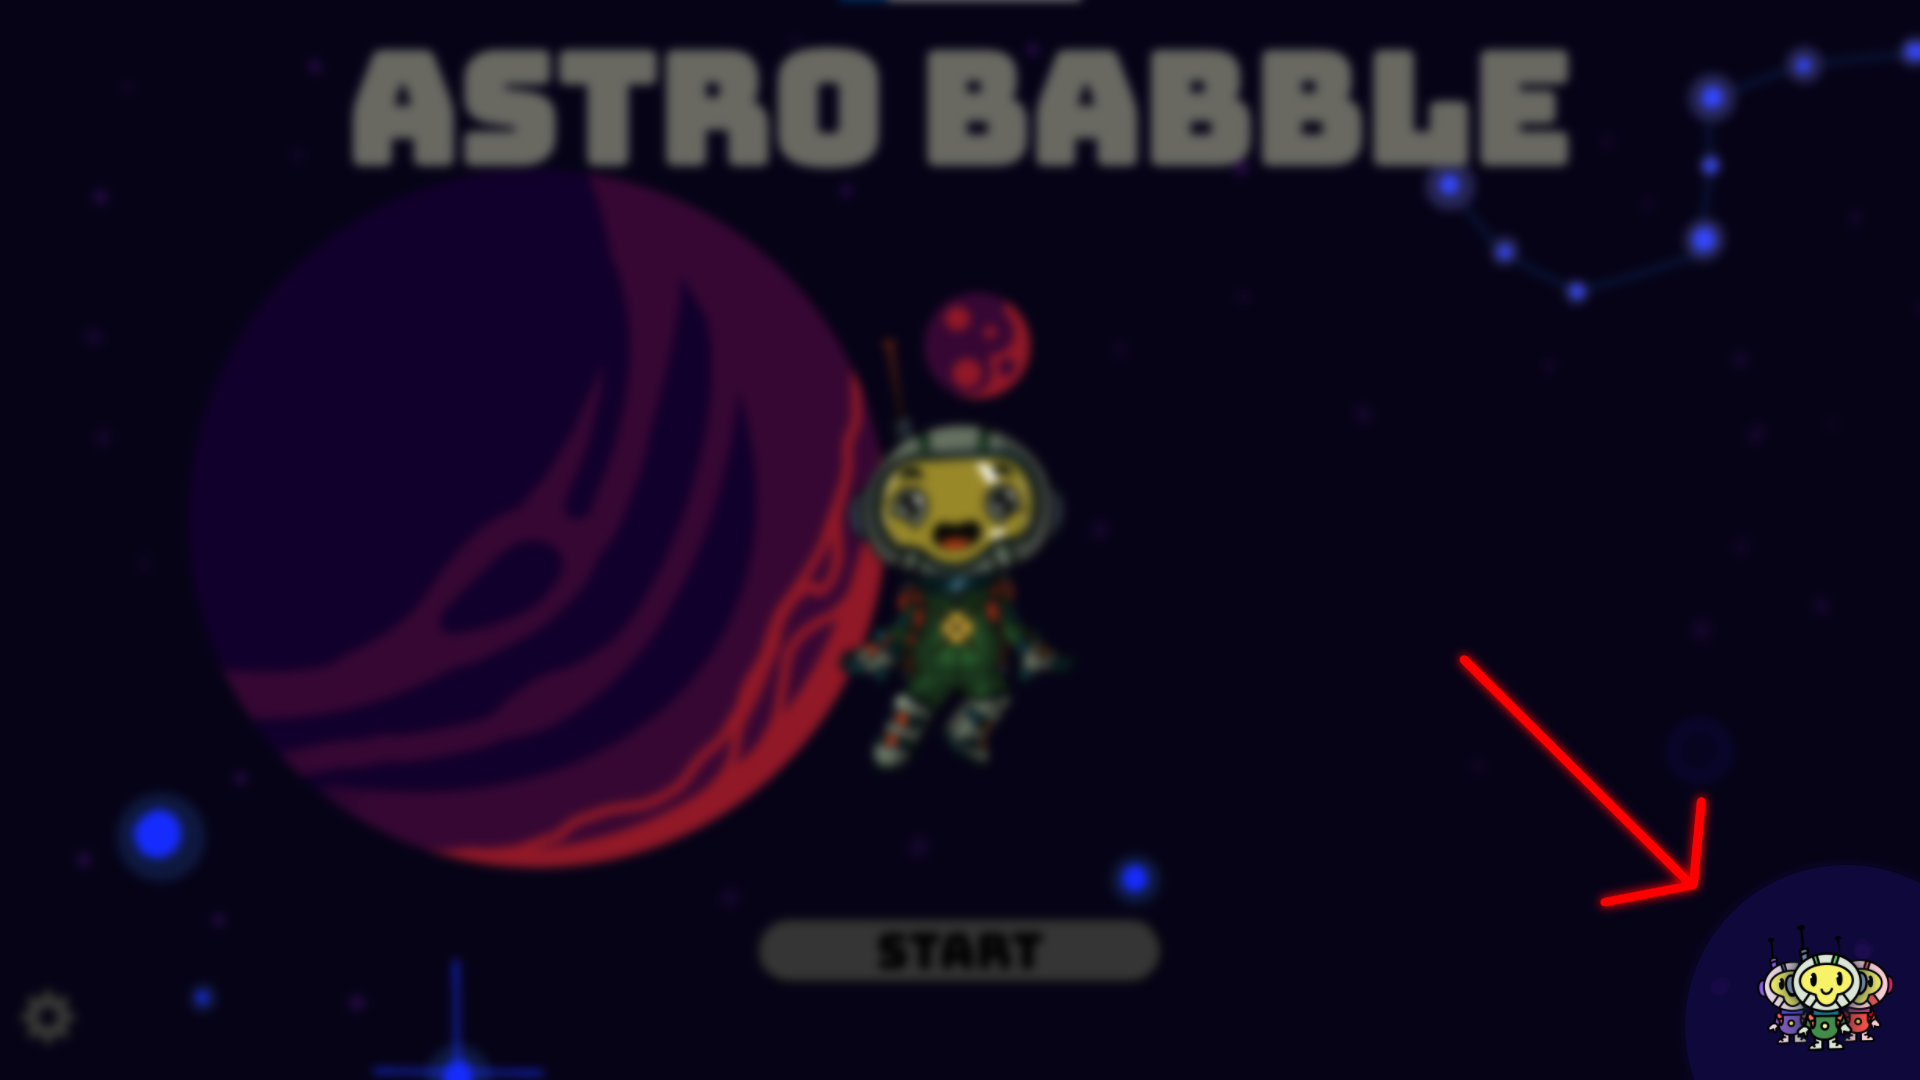
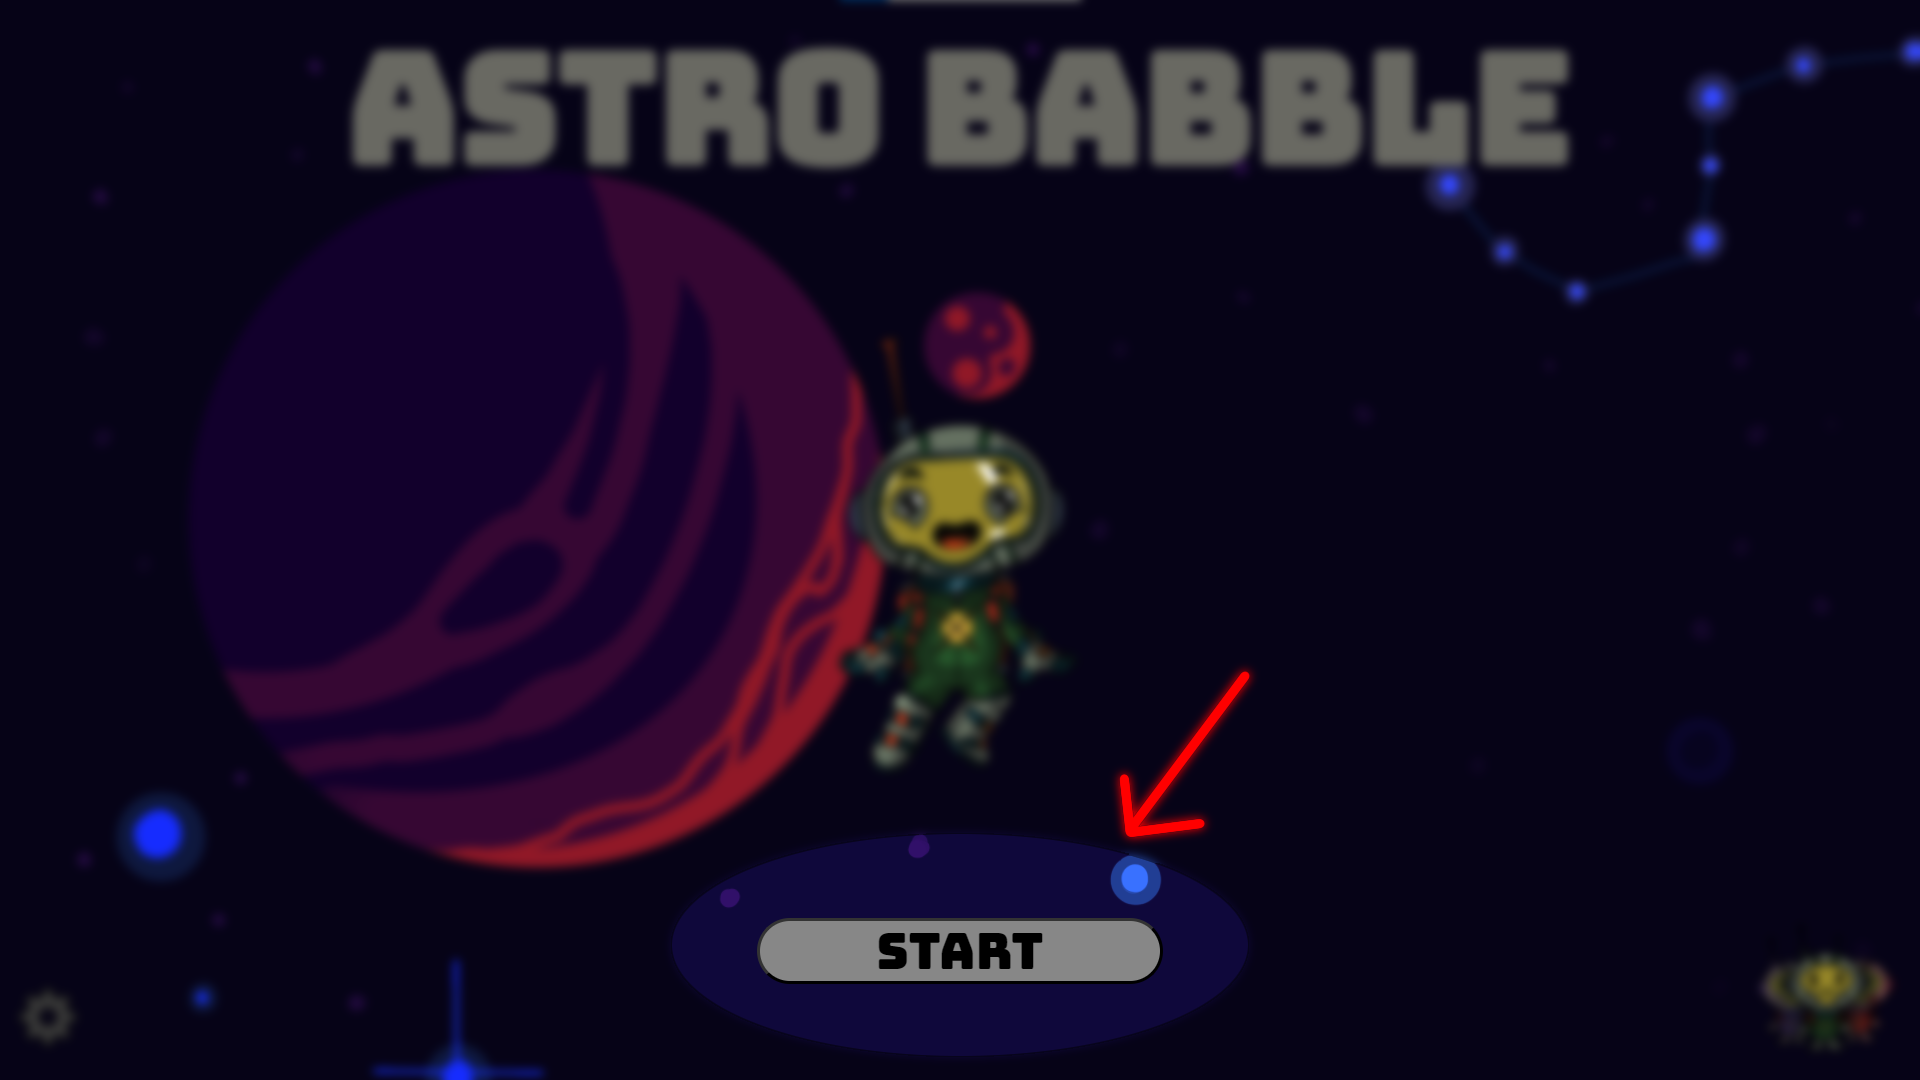
prepped the tutorial images some more

diff --git a/Game/JavaScript/ScriptHome.js b/Game/JavaScript/ScriptHome.js
@@ -56,7 +56,9 @@ window.onload = function (begin){
 function exitInstruct ()
 {
     console.log("Closed Help Page");
-    document.getElementById("generalInstruct").style.display = "none";   
+    document.getElementById("generalInstruct").style.display = "none";
+    //pauses any tutorial voice lines that may be playing when you leave the tutorial.
+    voiceAudio.pause();
 }
 
 //Makes it so that instructions are disabled or enabled based on what they input
@@ -139,7 +141,7 @@ function voiceLoad(){
     }
     //sets the variable voiceSource so that it's the sound file location
     let voiceSource = "Sound/Voice/Line"+ lineNum + ".wav";
-    //let SlideSource = "Images/Slides/Slide"+ slideNum + ".png";
+    //let slideSource = "Images/Tutorial/Tutorial"+ lineNum + ".png";
     //document.getElementById ("Slide").src = slideSource;
     //sets the audio source to the correct file
     document.getElementById ("voiceLines").src = voiceSource;

diff --git a/Game/Home.html b/Game/Home.html
@@ -71,6 +71,7 @@
 
                 <button id="tutorialScrollLeft" onclick="tutorialLeft()" class="leftArrow"></button>
                 <button id="tutorialScrollRight" onclick="tutorialRight()" class="rightArrow"></button>
+                <img src="" id="Slide">
                 <button id="tutorialStart" onclick="tutorialRight()" class="startTutorial">Start Tutorial</button>
                 <audio id="voiceLines">
                     <source src="" type="audio/wav">
@@ -85,7 +86,7 @@
                     <a href="#" onclick="checkChange()">
                       <div class="notAgain">
                         <div id="showHide" class="checkmark">
-                            <img src="Images/Icons/check.png" style="width: 100%;">
+                           <!--<img src="Images/Icons/check.png" style="width: 100%;">-->
                         </div>
                       </div>
                     </a>
